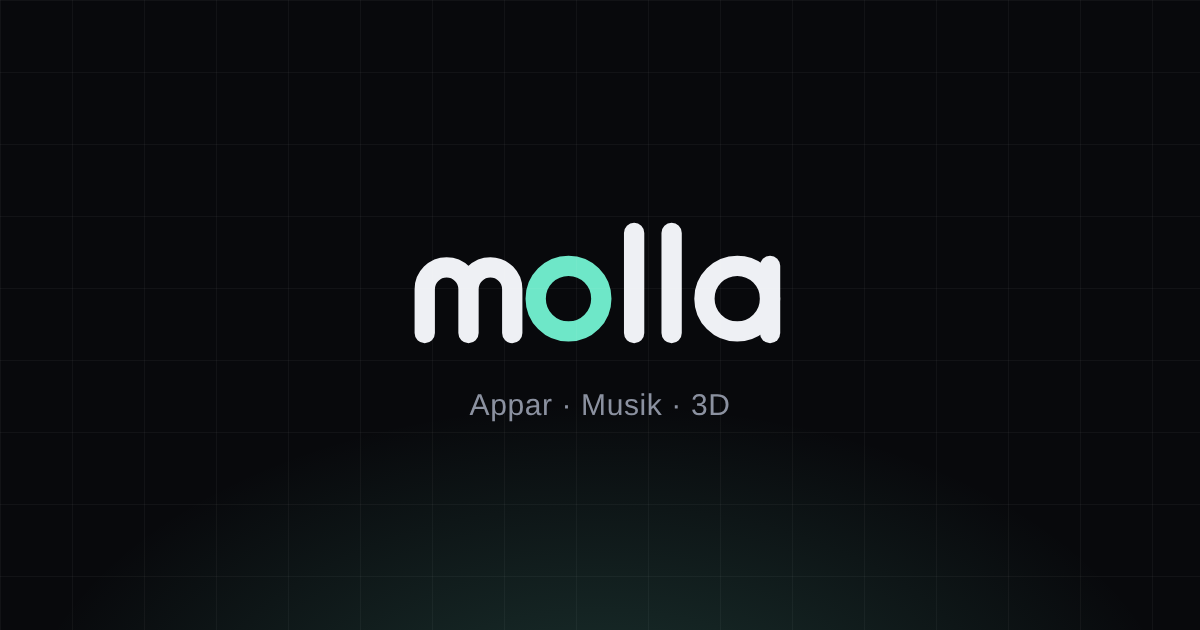
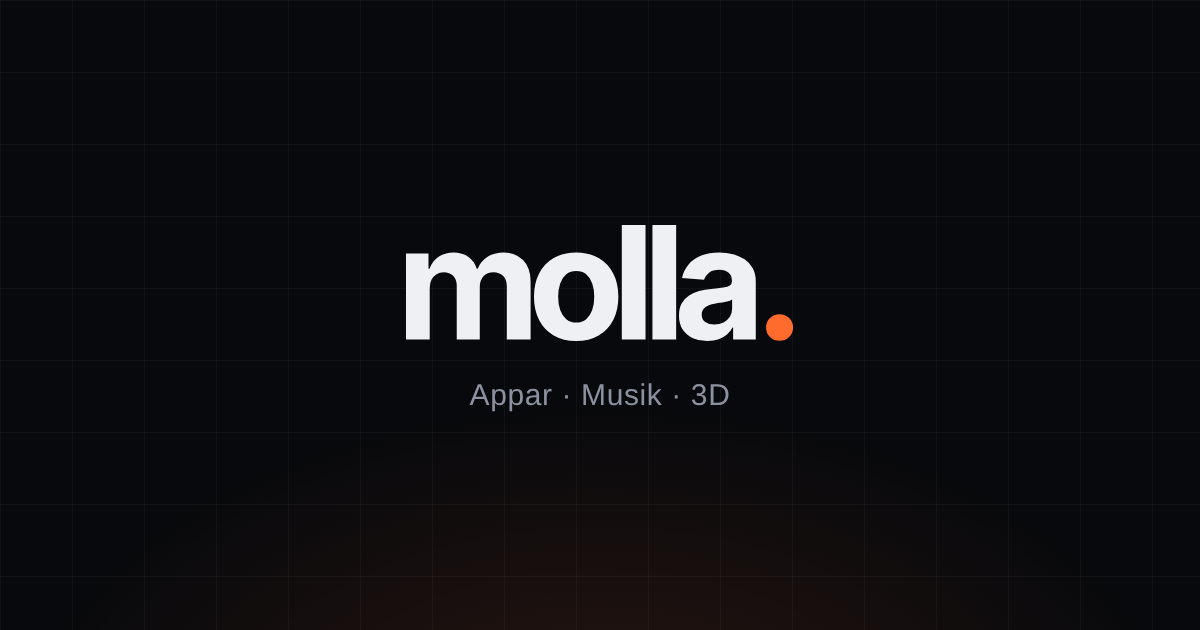
Byt logga till ordbilden molla. med Livok-orange punkt
Ordbilden är konverterad till vektorbanor (Inter Tight 700) så att den
ser likadan ut oberoende av typsnitt. Favicon, appikon och delningsbild
uppdaterade.

Claude-Session: https://claude.ai/code/session_01GF74RB9HgL3cbVMcmKcNxy

Changed region(s): [[0.3392, 0.3317, 0.6783, 0.5429], [0.37, 0.6032, 0.6167, 0.6635]]

diff --git a/index.html b/index.html
@@ -47,7 +47,7 @@ nav{position:fixed;top:0;left:0;right:0;z-index:20;transition:background .3s,bor
 nav.scrolled{background:#08090ccc;backdrop-filter:blur(14px);border-color:var(--line)}
 .nav-in{display:flex;align-items:center;justify-content:space-between;height:76px}
 .logo{font-size:21px;display:flex;align-items:center;gap:10px;letter-spacing:-.02em}
-.logo svg{height:30px;width:auto;display:block}
+.logo svg{height:26px;width:auto;display:block}
 nav ul{display:flex;gap:34px;list-style:none;font-size:15px;color:var(--muted)}
 nav ul a{transition:color .2s}nav ul a:hover{color:var(--text)}
 .btn{display:inline-flex;align-items:center;gap:10px;padding:13px 22px;border-radius:10px;font-weight:500;font-size:15px;transition:background .2s,border-color .2s,transform .2s}
@@ -208,7 +208,7 @@ footer .wrap{display:flex;justify-content:space-between;flex-wrap:wrap;gap:16px}
 
 <nav id="nav"><div class="wrap nav-in">
   <a href="#" class="logo" aria-label="Molla – till toppen">
-    <svg viewBox="0 0 248 96" role="img" aria-label="Molla"><path d="M12 80V52a14 14 0 0 1 28 0v28M40 52a14 14 0 0 1 28 0v28" stroke="#eef0f4" stroke-width="13" stroke-linecap="round" stroke-linejoin="round" fill="none"/><circle cx="104" cy="58" r="21" stroke="#6ee7c8" stroke-width="13" fill="none"/><path d="M146 16v64M170 16v64" stroke="#eef0f4" stroke-width="13" stroke-linecap="round" stroke-linejoin="round" fill="none"/><circle cx="212" cy="58" r="21" stroke="#eef0f4" stroke-width="13" fill="none"/><path d="M233 37v43" stroke="#eef0f4" stroke-width="13" stroke-linecap="round" stroke-linejoin="round" fill="none"/></svg>
+    <svg role="img" aria-label="Molla" viewBox="0 -1581 5223 1693"><path d="M91 0V-1118H384V-919H398Q433 -1018 515.0 -1075.0Q597 -1132 710 -1132Q825 -1132 905.5 -1074.5Q986 -1017 1013 -919H1025Q1059 -1016 1149.0 -1074.0Q1239 -1132 1361 -1132Q1517 -1132 1615.5 -1033.0Q1714 -934 1714 -752V0H1404V-690Q1404 -784 1354.5 -830.0Q1305 -876 1231 -876Q1147 -876 1099.5 -822.5Q1052 -769 1052 -682V0H752V-698Q752 -779 705.0 -827.5Q658 -876 582 -876Q530 -876 489.0 -850.0Q448 -824 424.0 -778.5Q400 -733 400 -670V0Z" fill="#eef0f4"/><path d="M2306.84 22Q2137.84 22 2014.3400000000001 -50.5Q1890.84 -123 1824.34 -252.5Q1757.84 -382 1757.84 -554Q1757.84 -728 1824.34 -857.5Q1890.84 -987 2014.3400000000001 -1059.5Q2137.84 -1132 2306.84 -1132Q2476.84 -1132 2600.34 -1059.5Q2723.84 -987 2790.34 -857.5Q2856.84 -728 2856.84 -554Q2856.84 -382 2790.34 -252.5Q2723.84 -123 2600.34 -50.5Q2476.84 22 2306.84 22ZM2308.84 -220Q2385.84 -220 2437.84 -263.5Q2489.84 -307 2516.34 -383.0Q2542.84 -459 2542.84 -556Q2542.84 -654 2516.34 -729.0Q2489.84 -804 2437.84 -847.0Q2385.84 -890 2308.84 -890Q2230.84 -890 2178.34 -847.0Q2125.84 -804 2099.34 -729.0Q2072.84 -654 2072.84 -556Q2072.84 -459 2099.34 -383.0Q2125.84 -307 2178.34 -263.5Q2230.84 -220 2308.84 -220Z" fill="#eef0f4"/><path d="M3210.68 -1490V0H2901.68V-1490Z" fill="#eef0f4"/><path d="M3609.52 -1490V0H3300.52V-1490Z" fill="#eef0f4"/><path d="M4017.36 21Q3911.36 21 3826.86 -16.5Q3742.36 -54 3694.36 -128.0Q3646.36 -202 3646.36 -312Q3646.36 -406 3680.36 -468.5Q3714.36 -531 3773.36 -570.0Q3832.36 -609 3907.36 -629.0Q3982.36 -649 4066.36 -657Q4163.360000000001 -666 4222.360000000001 -675.0Q4281.360000000001 -684 4308.860000000001 -702.5Q4336.360000000001 -721 4336.360000000001 -756V-761Q4336.360000000001 -830 4292.860000000001 -868.0Q4249.360000000001 -906 4170.360000000001 -906Q4087.36 -906 4037.86 -869.5Q3988.36 -833 3972.36 -777L3685.36 -800Q3707.36 -902 3771.36 -976.5Q3835.36 -1051 3936.86 -1091.5Q4038.36 -1132 4172.360000000001 -1132Q4265.360000000001 -1132 4350.360000000001 -1110.0Q4435.360000000001 -1088 4501.860000000001 -1042.5Q4568.360000000001 -997 4607.360000000001 -925.0Q4646.360000000001 -853 4646.360000000001 -754V0H4351.360000000001V-156H4343.360000000001Q4316.360000000001 -103 4271.360000000001 -63.5Q4226.360000000001 -24 4163.360000000001 -1.5Q4100.360000000001 21 4017.36 21ZM4106.360000000001 -193Q4174.360000000001 -193 4226.860000000001 -220.5Q4279.360000000001 -248 4308.860000000001 -294.5Q4338.360000000001 -341 4338.360000000001 -399V-518Q4324.360000000001 -509 4298.860000000001 -501.0Q4273.360000000001 -493 4242.360000000001 -487.0Q4211.360000000001 -481 4180.360000000001 -476.5Q4149.360000000001 -472 4124.360000000001 -468Q4069.36 -460 4028.36 -442.5Q3987.36 -425 3964.86 -395.5Q3942.36 -366 3942.36 -322Q3942.36 -259 3988.36 -226.0Q4034.36 -193 4106.360000000001 -193Z" fill="#eef0f4"/><path d="M4956.2 19Q4882.2 19 4831.2 -31.0Q4780.2 -81 4780.2 -155Q4780.2 -229 4831.2 -279.0Q4882.2 -329 4956.2 -329Q5030.2 -329 5081.2 -279.0Q5132.2 -229 5132.2 -155Q5132.2 -81 5081.2 -31.0Q5030.2 19 4956.2 19Z" fill="#FF6B2C"/></svg>
   </a>
   <ul>
     <li><a href="#appar">Appar</a></li>
@@ -313,7 +313,7 @@ footer .wrap{display:flex;justify-content:space-between;flex-wrap:wrap;gap:16px}
   </div>
 </section>
 
-<footer><div class="wrap"><span style="display:flex;gap:14px;align-items:center"><svg style="height:18px;width:auto;display:block" viewBox="0 0 248 96" role="img" aria-label="Molla"><path d="M12 80V52a14 14 0 0 1 28 0v28M40 52a14 14 0 0 1 28 0v28" stroke="#5b6070" stroke-width="13" stroke-linecap="round" stroke-linejoin="round" fill="none"/><circle cx="104" cy="58" r="21" stroke="#5b6070" stroke-width="13" fill="none"/><path d="M146 16v64M170 16v64" stroke="#5b6070" stroke-width="13" stroke-linecap="round" stroke-linejoin="round" fill="none"/><circle cx="212" cy="58" r="21" stroke="#5b6070" stroke-width="13" fill="none"/><path d="M233 37v43" stroke="#5b6070" stroke-width="13" stroke-linecap="round" stroke-linejoin="round" fill="none"/></svg>© 2026</span><span>molla.se</span></div></footer>
+<footer><div class="wrap"><span style="display:flex;gap:14px;align-items:center"><svg style="height:18px;width:auto;display:block" role="img" aria-label="Molla" viewBox="0 -1581 5223 1693"><path d="M91 0V-1118H384V-919H398Q433 -1018 515.0 -1075.0Q597 -1132 710 -1132Q825 -1132 905.5 -1074.5Q986 -1017 1013 -919H1025Q1059 -1016 1149.0 -1074.0Q1239 -1132 1361 -1132Q1517 -1132 1615.5 -1033.0Q1714 -934 1714 -752V0H1404V-690Q1404 -784 1354.5 -830.0Q1305 -876 1231 -876Q1147 -876 1099.5 -822.5Q1052 -769 1052 -682V0H752V-698Q752 -779 705.0 -827.5Q658 -876 582 -876Q530 -876 489.0 -850.0Q448 -824 424.0 -778.5Q400 -733 400 -670V0Z" fill="#5b6070"/><path d="M2306.84 22Q2137.84 22 2014.3400000000001 -50.5Q1890.84 -123 1824.34 -252.5Q1757.84 -382 1757.84 -554Q1757.84 -728 1824.34 -857.5Q1890.84 -987 2014.3400000000001 -1059.5Q2137.84 -1132 2306.84 -1132Q2476.84 -1132 2600.34 -1059.5Q2723.84 -987 2790.34 -857.5Q2856.84 -728 2856.84 -554Q2856.84 -382 2790.34 -252.5Q2723.84 -123 2600.34 -50.5Q2476.84 22 2306.84 22ZM2308.84 -220Q2385.84 -220 2437.84 -263.5Q2489.84 -307 2516.34 -383.0Q2542.84 -459 2542.84 -556Q2542.84 -654 2516.34 -729.0Q2489.84 -804 2437.84 -847.0Q2385.84 -890 2308.84 -890Q2230.84 -890 2178.34 -847.0Q2125.84 -804 2099.34 -729.0Q2072.84 -654 2072.84 -556Q2072.84 -459 2099.34 -383.0Q2125.84 -307 2178.34 -263.5Q2230.84 -220 2308.84 -220Z" fill="#5b6070"/><path d="M3210.68 -1490V0H2901.68V-1490Z" fill="#5b6070"/><path d="M3609.52 -1490V0H3300.52V-1490Z" fill="#5b6070"/><path d="M4017.36 21Q3911.36 21 3826.86 -16.5Q3742.36 -54 3694.36 -128.0Q3646.36 -202 3646.36 -312Q3646.36 -406 3680.36 -468.5Q3714.36 -531 3773.36 -570.0Q3832.36 -609 3907.36 -629.0Q3982.36 -649 4066.36 -657Q4163.360000000001 -666 4222.360000000001 -675.0Q4281.360000000001 -684 4308.860000000001 -702.5Q4336.360000000001 -721 4336.360000000001 -756V-761Q4336.360000000001 -830 4292.860000000001 -868.0Q4249.360000000001 -906 4170.360000000001 -906Q4087.36 -906 4037.86 -869.5Q3988.36 -833 3972.36 -777L3685.36 -800Q3707.36 -902 3771.36 -976.5Q3835.36 -1051 3936.86 -1091.5Q4038.36 -1132 4172.360000000001 -1132Q4265.360000000001 -1132 4350.360000000001 -1110.0Q4435.360000000001 -1088 4501.860000000001 -1042.5Q4568.360000000001 -997 4607.360000000001 -925.0Q4646.360000000001 -853 4646.360000000001 -754V0H4351.360000000001V-156H4343.360000000001Q4316.360000000001 -103 4271.360000000001 -63.5Q4226.360000000001 -24 4163.360000000001 -1.5Q4100.360000000001 21 4017.36 21ZM4106.360000000001 -193Q4174.360000000001 -193 4226.860000000001 -220.5Q4279.360000000001 -248 4308.860000000001 -294.5Q4338.360000000001 -341 4338.360000000001 -399V-518Q4324.360000000001 -509 4298.860000000001 -501.0Q4273.360000000001 -493 4242.360000000001 -487.0Q4211.360000000001 -481 4180.360000000001 -476.5Q4149.360000000001 -472 4124.360000000001 -468Q4069.36 -460 4028.36 -442.5Q3987.36 -425 3964.86 -395.5Q3942.36 -366 3942.36 -322Q3942.36 -259 3988.36 -226.0Q4034.36 -193 4106.360000000001 -193Z" fill="#5b6070"/><path d="M4956.2 19Q4882.2 19 4831.2 -31.0Q4780.2 -81 4780.2 -155Q4780.2 -229 4831.2 -279.0Q4882.2 -329 4956.2 -329Q5030.2 -329 5081.2 -279.0Q5132.2 -229 5132.2 -155Q5132.2 -81 5081.2 -31.0Q5030.2 19 4956.2 19Z" fill="#FF6B2C"/></svg>© 2026</span><span>molla.se</span></div></footer>
 
 <script>
 // Rubrik ord för ord
